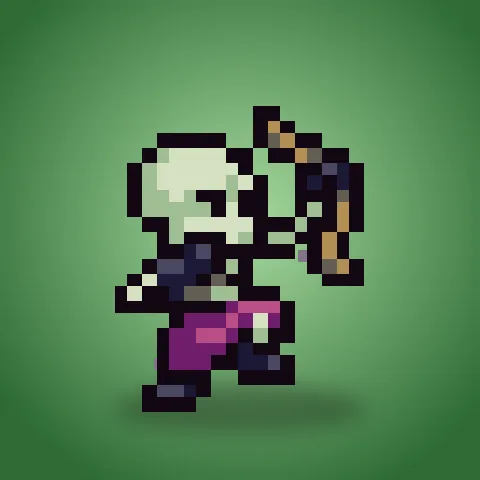
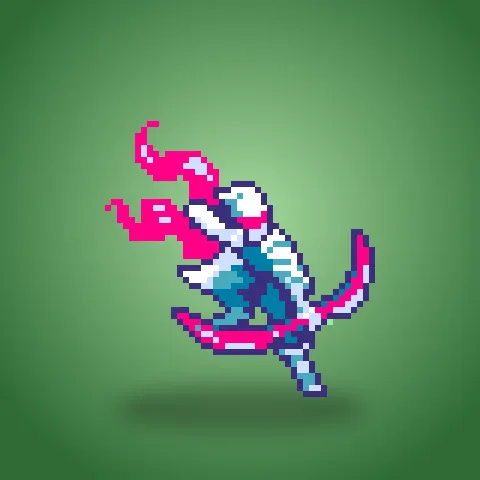
Hunter and Barton art; Old Map no longer gives 2 gold; gold display moved above the hand
Claude-Session: https://claude.ai/code/session_01WPSHXdnTWEUNYN1dkDcgY6

Changed region(s): [[0.2188, 0.2188, 0.7812, 0.875]]

diff --git a/src/engine/heroes.ts b/src/engine/heroes.ts
@@ -239,10 +239,9 @@ export const TRINKETS: TrinketDef[] = [
     const id = drawFromPool(g, (cid) => def(cid).tribe === 'brambor' && def(cid).tier <= p.tier);
     if (id) gainNew(g, p, id);
   } },
-  { id: 'old_map', name: 'Old Map', cost: 1, text: 'At the end of every 2 turns, gain 2 Gold and Discover a Tier 5 unit.',
+  { id: 'old_map', name: 'Old Map', cost: 1, text: 'At the end of every 2 turns, Discover a Tier 5 unit.',
     endTurn: (g, p) => {
       if (!everyOther(p, 'old_map')) return;
-      p.goldNextTurn += 2;
       p.heroMem.old_map_discover = 1; // discovered at the start of next turn, when you can choose
     },
     startTurn: (g, p) => {

diff --git a/src/ui/layout.ts b/src/ui/layout.ts
@@ -67,7 +67,7 @@ export const LANDSCAPE: Layout = {
   heroY: 680, handY: 770, handWidth: 1040,
   shopDrop: 372, boardTop: 372, boardBottom: 625,
   leader: { x: 14, y: 14, w: 228, h: 800, horizontal: false },
-  endTurn: { x: 1410, y: 360 }, gold: { x: 1150, y: 812 }, gear: { x: 1494, y: 12, size: 44 }, mute: { x: 1546, y: 12, size: 44 },
+  endTurn: { x: 1410, y: 360 }, gold: { x: 1400, y: 640 }, gear: { x: 1494, y: 12, size: 44 }, mute: { x: 1546, y: 12, size: 44 },
   tribes: { x: 14, y: 826, w: 228 },
   cardsBtn: { x: 1436, y: 470 },
   targetBar: { x: 250, y: 640, w: 440 },
